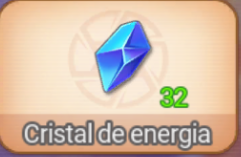
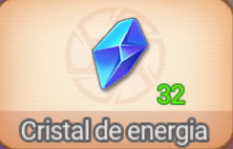
melhoria no visual e corrigindo probabilidade

Changed region(s): [[0.0, 0.0, 1.0, 1.0], [0.4206, 0.1074, 0.6609, 0.6174]]

diff --git a/src/pages/api/bdItens.ts b/src/pages/api/bdItens.ts
@@ -3,24 +3,24 @@ import CardWheelModel from "../../model/CardWheelModel";
 
 
 const cards:CardWheelModel[]=[
-    new CardWheelModel(1, 'Diamantes','/assets/wheel/1dima.png','/assets/wheelWin/1dimaWin.png'),
-    new CardWheelModel(2, 'Ouro','/assets/wheel/2gold.png','/assets/wheelWin/2goldWin.png'),
+    new CardWheelModel(1, 'Diamantes','/assets/wheel/1dima.png','/assets/wheelWin/1dimaWin.png', "common"),
+    new CardWheelModel(2, 'Ouro','/assets/wheel/2gold.png','/assets/wheelWin/2goldWin.png',"common"),
 
-    new CardWheelModel(3, 'Hamster','/assets/wheel/3hamster.png','/assets/wheelWin/3hamsterWin.png'),
+    new CardWheelModel(3, 'Baiacu','/assets/wheel/3baiacu.png','/assets/wheelWin/3baiacuWin.png',"hero"),
 
-    new CardWheelModel(4, 'Carvão','/assets/wheel/4coal.png','/assets/wheelWin/4coalWin.png'),
-    new CardWheelModel(5, 'ExpMont','/assets/wheel/5expMont.png','/assets/wheelWin/5expMontWin.png'),
-    new CardWheelModel(6, 'Essênc...','/assets/wheel/6essenceElement.png','/assets/wheelWin/6essenceElementWin.png'),
-    new CardWheelModel(7, 'Essênc...','/assets/wheel/7perfectEssence.png','/assets/wheelWin/7perfectEssenceWin.png'),
+    new CardWheelModel(4, 'Carvão','/assets/wheel/4coal.png','/assets/wheelWin/4coalWin.png', "excellent"),
+    new CardWheelModel(5, 'ExpMont','/assets/wheel/5expMont.png','/assets/wheelWin/5expMontWin.png', "common"),
+    new CardWheelModel(6, 'Essênc...','/assets/wheel/6essenceElement.png','/assets/wheelWin/6essenceElementWin.png', "elite"),
+    new CardWheelModel(7, 'Essênc...','/assets/wheel/7perfectEssence.png','/assets/wheelWin/7perfectEssenceWin.png', "common"),
     
-    new CardWheelModel(8, '10xhamster','/assets/wheel/8fragHamster.png','/assets/wheelWin/8fragHamsterWin.png'),
+    new CardWheelModel(8, '10x Frag...','/assets/wheel/8fragBaiacu.png','/assets/wheelWin/8fragBaiacuWin.png', "hero"),
 
-    new CardWheelModel(9, 'Pedra...','/assets/wheel/9forgeStone.png','/assets/wheelWin/9forgeStoneWin.png'),
-    new CardWheelModel(10, 'Crista...','/assets/wheel/10magicCristal.png','/assets/wheelWin/10magiccristalWin.png'),
-    new CardWheelModel(11, 'Chip','/assets/wheel/11chip.png','/assets/wheelWin/11chipWin.png'),
-    new CardWheelModel(12, 'Lvl5Ped...','/assets/wheel/12jewel.png','/assets/wheelWin/12jewelWin.png'),
-    new CardWheelModel(13, 'Crista...','/assets/wheel/13energyShard.png','/assets/wheelWin/13energyShardWin.png'),
-    new CardWheelModel(14, 'AnjoBogu','/assets/wheel/14boguExp.png','/assets/wheelWin/14boguExpWin.png'),
+    new CardWheelModel(9, 'Pedra...','/assets/wheel/9forgeStone.png','/assets/wheelWin/9forgeStoneWin.png', "hero"),
+    new CardWheelModel(10, 'Crista...','/assets/wheel/10magicCristal.png','/assets/wheelWin/10magiccristalWin.png', "excellent"),
+    new CardWheelModel(11, 'Chip','/assets/wheel/11chip.png','/assets/wheelWin/11chipWin.png', "common"),
+    new CardWheelModel(12, 'Lvl5Ped...','/assets/wheel/12jewel.png','/assets/wheelWin/12jewelWin.png', "hero"),
+    new CardWheelModel(13, 'Crista...','/assets/wheel/13energyShard.png','/assets/wheelWin/13energyShardWin.png', "common"),
+    new CardWheelModel(14, 'AnjoBogu','/assets/wheel/14boguExp.png','/assets/wheelWin/14boguExpWin.png', "elite"),
 ]
 
 

diff --git a/src/function/probability.ts b/src/function/probability.ts
@@ -1,5 +1,4 @@
 
-
 import cards from "../pages/api/bdItens"
 
 const generateIds = (quant:number) =>{
@@ -8,73 +7,66 @@ const generateIds = (quant:number) =>{
     for(let i = 0; i < quant;i++){
         awardsIds.push(generateItem()-1)
     }
-
+    console.log(awardsIds)
     return awardsIds
-    
 }
 
 const getRewards = (quant:number) =>{
-    
     const ids = generateIds(quant)
-    console.log(ids)
     const rewards:any = []
 
     ids.map((id)=>{
         rewards.push(cards[id])
     })
-
     return rewards;
-    
+
 }
 
-
-
 const generateItem = () =>{
-    const randomNumber =Math.floor(Math.random() * 200) + 1;
-
-    if(randomNumber >=1 && randomNumber <=2){//1%
-        return 3//poet lendario
+    const randomNumber =Math.floor(Math.random() * 1000) + 1;
+    console.log(randomNumber)
+    if(randomNumber >=1 && randomNumber <=10){//1%
+        return 3//pet lendario
     }
-    if(randomNumber >=3 && randomNumber <=5){//1.5%
+    if(randomNumber >=11 && randomNumber <=25){//1.5%
         return 12//jewel nvl 5
     }
-    if(randomNumber >=6 && randomNumber <=9){//2%
+    if(randomNumber >=26 && randomNumber <=46){//2%
         return 8//frag pet lendario x10
     }
-    if(randomNumber >=10 && randomNumber <=16){//3.5%
+    if(randomNumber >=47 && randomNumber <=82){//3.5%
         return 11//chip
     }
-    if(randomNumber >=17 && randomNumber <=23){//3.5%
+    if(randomNumber >=83 && randomNumber <=118){//3.5%
         return 9//forja nvl 4
     }
-    if(randomNumber >=24 && randomNumber <=33){//5%
+    if(randomNumber >=119 && randomNumber <=169){//5%
         return 14//bogu exp
     }
-    if(randomNumber >= 34 && randomNumber <=47){//7%
+    if(randomNumber >= 170 && randomNumber <=240){//7%
         return 5//'expMont'
     }
-    if(randomNumber >=48 && randomNumber <=75){//14%
+    if(randomNumber >=241 && randomNumber <=381){//14%
         return 6//'Essencia elemento'
     }
-    if(randomNumber >=76 && randomNumber <=105){//15%
+    if(randomNumber >=382 && randomNumber <=532){//15%
         return 13//'Cristal energia'
     }
-    if(randomNumber >=106 && randomNumber <=115){//5%
+    if(randomNumber >=533 && randomNumber <=583){//5%
         return 10//'Cristal mágico'
     }
-    if(randomNumber >=116 && randomNumber <=124){//8.8%
+    if(randomNumber >=584 && randomNumber <=672){//8.8%
         return 1//'Diamante'
     }
-    if(randomNumber >=125 && randomNumber <=150){//13%
+    if(randomNumber >=673 && randomNumber <=803){//13%
         return 4//'Carvao'
     }
-    if(randomNumber >=151 && randomNumber <=182){//16%
+    if(randomNumber >=804 && randomNumber <=964){//16%
         return 7//'Essencial animal perfeito'
     }
-    if(randomNumber >=183 && randomNumber <=200){//5.1%
+    if(randomNumber >=965 && randomNumber <=1000){//5.1%
         return 2//'Moeda de ouro'
     }
-    console.log(randomNumber)
     return 9999
 }
 

diff --git a/src/pages/index.tsx b/src/pages/index.tsx
@@ -43,7 +43,7 @@ export default function Home() {
         <div style={{display:'flex', gap:'30px', margin:'30px 0px 0px 30px'}}>
           <CardWheel imageUrl='/assets/wheel/1dima.png'></CardWheel>
           <CardWheel imageUrl='/assets/wheel/2gold.png'></CardWheel>
-          <CardWheel imageUrl='/assets/wheel/3hamster.png'></CardWheel>
+          <CardWheel imageUrl='/assets/wheel/3baiacu.png'></CardWheel>
           <CardWheel imageUrl='/assets/wheel/4coal.png'></CardWheel>
           <CardWheel imageUrl='/assets/wheel/5expMont.png'></CardWheel>
         </div>
@@ -65,7 +65,7 @@ export default function Home() {
           <CardWheel imageUrl='/assets/wheel/11chip.png'></CardWheel>
           <CardWheel imageUrl='/assets/wheel/10magicCristal.png'></CardWheel>
           <CardWheel imageUrl='/assets/wheel/9forgeStone.png'></CardWheel>
-          <CardWheel imageUrl='/assets/wheel/8fragHamster.png'></CardWheel>
+          <CardWheel imageUrl='/assets/wheel/8fragBaiacu.png'></CardWheel>
         </div>
         
         <div className="buttons" style={{ position:'absolute', display:'flex', gap:'30px', marginTop:'100px'}}>

diff --git a/src/component/CardWinner.tsx b/src/component/CardWinner.tsx
@@ -8,9 +8,26 @@ interface CardWinnerProp  {
 
 export default function CardWinner(props:CardWinnerProp){
 
+    let checkRarity;
+
+    switch (props.card.rarity) {
+      case 'hero':
+        checkRarity = styles.hero;
+        break;
+      case 'elite':
+        checkRarity = styles.elite;
+        break;
+      case 'excellent':
+        checkRarity = styles.excellent;
+        break;
+      default:
+        checkRarity = styles.common;
+        break;
+    }
+
     return(
-        <div className={styles.cardWinner}>
-            <img src={props.card.urlImageWin} alt="erro"/>
+        <div className={`${styles.cardWinner}`}>
+            <img src={props.card.urlImageWin} alt="erro" className={`${checkRarity}`}/>
             <p>{props.card.name}</p>
         </div>
     )

diff --git a/src/model/CardWheelModel.ts b/src/model/CardWheelModel.ts
@@ -4,13 +4,15 @@ export default class CardWheelModel{
     #name:string
     #urlImageCard: string
     #urlImageWin: string
+    #rarity: string
 
 
-    constructor(id: number, name:string, urlImageCard: string, urlImageWin:string){
+    constructor(id: number, name:string, urlImageCard: string, urlImageWin:string, rarity: string){
         this.#id = id
         this.#name = name
         this.#urlImageCard = urlImageCard
         this.#urlImageWin = urlImageWin
+        this.#rarity = rarity
     }
 
     get id(){
@@ -24,5 +26,8 @@ export default class CardWheelModel{
     }
     get urlImageWin(){
         return this.#urlImageWin
+    }
+    get rarity(){
+        return this.#rarity
     }
 }

diff --git a/src/styles/CardWinner.module.css b/src/styles/CardWinner.module.css
@@ -10,10 +10,31 @@
 .cardWinner img{
     height: 100px;
     border-radius: 20px;
-    /*DEixar cor dinamica entre verde branco e azul*/
+}
+
+.hero{
+    border: 1px solid #b91fb29f;
+    box-shadow: 1px 1px 12px #ad1fb9;
+}
+
+.elite{
+    border: 1px solid #3596f09f;
+    box-shadow: 1px 1px 12px #278afc;
+}
+
+.excellent{
+    border: 1px solid #2ad14e9f;
+    box-shadow: 1px 1px 12px #1fca44;
+}
+
+.common{
     border: 1px solid #ffffff9f;
     box-shadow: 1px 1px 12px #fff;
 }
+
+
+
+
 .cardWinner p{
     text-align: center;
     font-weight: 700;

diff --git a/src/styles/globals.css b/src/styles/globals.css
@@ -8,7 +8,26 @@
 html,
 body {
   max-width: 100vw;
+}
+
+.wheel{
+  background-image: url("/assets/background.jpg");
+  background-size: contain;
+  background-position: center;
+  backdrop-filter: blur(2px);
   overflow-x: hidden;
   overflow-y: hidden;
-  background-color: #87ceeb;
+  min-height: 88vh;
+}
+
+.wheel::before {
+  content: "";
+  background: inherit;
+  filter: blur(2px);
+  position: absolute;
+  top: 0;
+  left: 0;
+  right: 0;
+  bottom: 0;
+  z-index: -1;
 }

diff --git a/src/component/WinnerDisplay.tsx b/src/component/WinnerDisplay.tsx
@@ -11,7 +11,6 @@ interface WinnerDisplayProp  {
 export default function WinnerDisplay(props:WinnerDisplayProp){
     
     function generateAllCards(){
-        console.log(props.cardsWinner)
         return props.cardsWinner.map((card, i)=>{
             return <CardWinner 
                         key={`${card.id}${i}`}

diff --git a/src/styles/ButtonWheel.module.css b/src/styles/ButtonWheel.module.css
@@ -1,10 +1,11 @@
 .buttonWheel{
-    width: 250px;
+    width: 260px;
     border-radius: 20px;
-    box-shadow: 3px 3px 4px black;
-    transition: all .2s ease-in-out;
+    
+    transition: all .1s ease-in-out;
+    cursor: pointer;
 }
 
 .buttonWheel:hover{
-    transform: scale(1.1);
+    transform: scale(1.08);
 }
